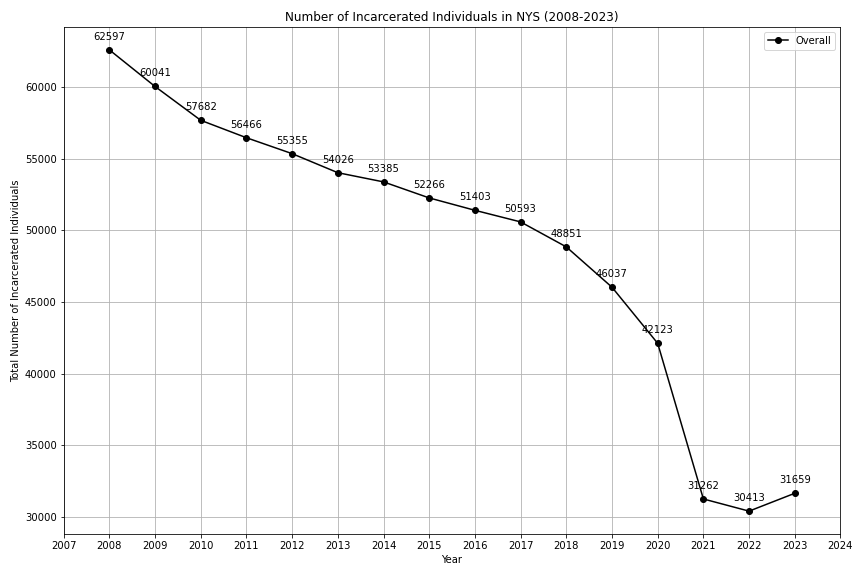
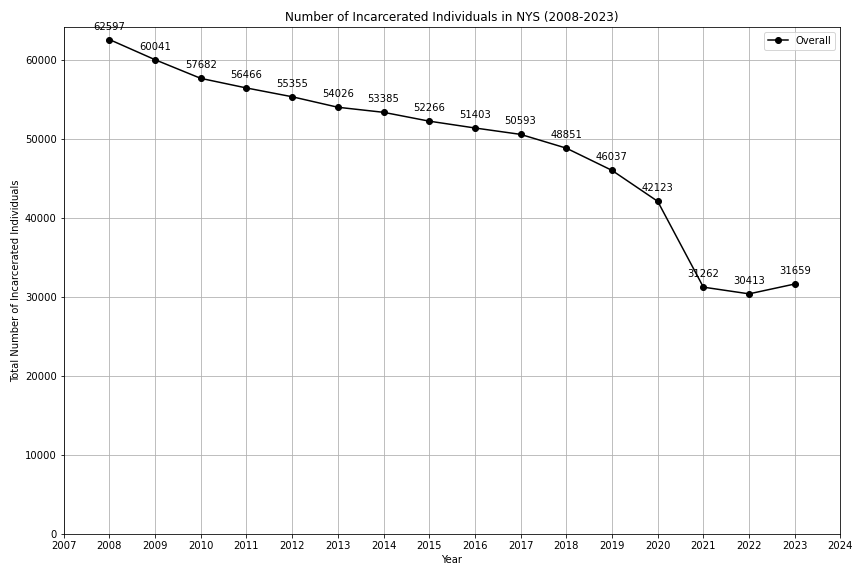
Finalizing
Changing the terms used in specific scripts relating to jails, prisons, and correctional (housing) facilities.

diff --git a/FACILITY/facility.py b/FACILITY/facility.py
@@ -1,4 +1,4 @@
-#This script generates stacked bar charts demonstrating the racial distribution of incarcerated individuals in New York state in the snapshot year 2023 by housing facility.
+#This script generates stacked bar charts demonstrating the racial distribution of incarcerated individuals in New York state in the snapshot year 2023 by facility (i.e., jail, prison, etc.)
 
 #Importing necessary libraries.
 import pandas as pd
@@ -10,7 +10,7 @@ incarcerated_data = pd.read_csv("Incarcerated_Individuals_Under_Custody_Beginnin
 #Trimming down to year 2023.
 incarcerated_data_2023 = incarcerated_data[incarcerated_data['Snapshot Year'] == 2023]
 
-#Grouping by housing facility and counting the number of incarcerated individuals.
+#Grouping by correctional facility and counting the number of incarcerated individuals.
 facility_counts = incarcerated_data_2023.groupby('Housing Facility').size().reset_index(name='Total_Count')
 
 #Calculating the number of incarcerated individuals by race for each facility.
@@ -22,13 +22,13 @@ facility_counts = facility_counts.merge(racial_counts_by_facility, on='Housing F
 #Sorting facilities by total count in descending order.
 facility_counts = facility_counts.sort_values(by='Total_Count', ascending=False)
 
-#Plotting stacked bar charts for top 10 and bottom 10 facilities. 
+#Plotting stacked bar charts for top 10 and bottom 10 correctional facilities. 
 #Plotting the top 10 facilities.
 top_10_facilities = facility_counts.head(10)
 if not top_10_facilities.empty:
     top_10_facilities.set_index('Housing Facility').drop(columns='Total_Count').plot(kind='bar', stacked=True, figsize=(10, 8), color=['#BC8F8F', '#A0522D', '#CD853F', '#D2691E', '#8B5A2B', 'tan'])
-    plt.title('Racial Distribution of Incarcerated Individuals in Top 10 Facilities in NYS (2023)', fontsize=14)
-    plt.xlabel('Housing Facilities with the Highest Amount of Incarcerated Individuals in NYS', fontsize=12)
+    plt.title('Racial Distribution of Incarcerated Individuals in Top 10 Jails/Prisons in NYS (2023)', fontsize=14)
+    plt.xlabel('Jails/Prisons with the Highest Amount of Incarcerated Individuals in NYS', fontsize=12)
     plt.ylabel('Number of Incarcerated Individuals', fontsize=12)
     plt.legend(title='Race/Ethnicity')
     plt.xticks(rotation=45, ha='right', fontsize=10)
@@ -43,8 +43,8 @@ if not top_10_facilities.empty:
 bottom_10_facilities = facility_counts.tail(10)
 if not bottom_10_facilities.empty:
     bottom_10_facilities.set_index('Housing Facility').drop(columns='Total_Count').plot(kind='bar', stacked=True, figsize=(10, 8), color=['#BC8F8F', '#A0522D', '#CD853F', '#D2691E', '#8B5A2B', 'tan'])
-    plt.title('Racial Distribution of Incarcerated Individuals in Bottom 10 Facilities in NYS (2023)', fontsize=14)
-    plt.xlabel('Housing Facilities with the Least Amount of Incarcerated Individuals in NYS', fontsize=12)
+    plt.title('Racial Distribution of Incarcerated Individuals in Bottom 10 Jails/Prisonsin NYS (2023)', fontsize=14)
+    plt.xlabel('Jails/Prisons with the Least Amount of Incarcerated Individuals in NYS', fontsize=12)
     plt.ylabel('Number of Incarcerated Individuals', fontsize=12)
     plt.legend(title='Race/Ethnicity')
     plt.xticks(rotation=45, ha='right', fontsize=10)
@@ -55,13 +55,13 @@ if not bottom_10_facilities.empty:
     plt.savefig('bottom_10_facilities_race_distribution.png')
     plt.show()
 
-#Calculating the number of non-white individuals for each housing facility.
+#Calculating the number of non-white individuals for each facility.
 nonwhite_counts = incarcerated_data_2023[incarcerated_data_2023['Race/Ethnicity'] != 'WHITE'].groupby('Housing Facility').size().reset_index(name='Nonwhite_Count')
 
-#Merging the total counts and non-white counts by housing facility.
+#Merging the total counts and non-white counts by facility.
 facility_counts = pd.merge(facility_counts, nonwhite_counts, on='Housing Facility', how='left')
 
-#Calculating the percentage of non-white individuals for each housing facility.
+#Calculating the percentage of non-white individuals for each facility.
 facility_counts['Nonwhite_Percentage'] = (facility_counts['Nonwhite_Count'] / facility_counts['Total_Count']) * 100
 
 #Saving the facility counts and percentages to a CSV file.

diff --git a/CRIME VS/crimes_heatmap.py b/CRIME VS/crimes_heatmap.py
@@ -1,4 +1,4 @@
-#This script analyzes the relationship between the top 10 crimes and both the top 25 housing facilities and race/ethnicity of incarcerated individuals in 2023, visualizing the data using heatmaps.
+#This script analyzes the relationship between the top 10 crimes and both the top 25 correctional facilities (i.e., jails and prisons) and race/ethnicity of incarcerated individuals in 2023, visualizing the data using heatmaps.
 
 #Importing libraries.
 import pandas as pd
@@ -11,10 +11,10 @@ incarcerated_data = pd.read_csv("Incarcerated_Individuals_Under_Custody_Beginnin
 #Filtering data for the year 2023.
 incarcerated_data_2023 = incarcerated_data[incarcerated_data['Snapshot Year'] == 2023]
 
-#Geting the top 25 facilities with the most incarcerated individuals.
+#Geting the top 25 correctional facilities with the most incarcerated individuals.
 top_facilities = incarcerated_data_2023.groupby('Housing Facility').size().nlargest(25).index
 
-#Filtering the dataset to include only the top 25 facilities.
+#Filtering the dataset to include only the top 25 correctional facilities.
 incarcerated_data_2023 = incarcerated_data_2023[incarcerated_data_2023['Housing Facility'].isin(top_facilities)]
 
 #Counting the number of incarcerated individuals by most serious crime.
@@ -22,31 +22,20 @@ crime_counts = incarcerated_data_2023['Most Serious Crime'].value_counts().reset
 print(crime_counts.head(10))
 
 #Defining the top 10 crimes based on printed list.
-top_crimes = [
-    "MURDER 2ND",
-    "C POS WEAPON 2ND",
-    "MANSLAUGHTER 1ST",
-    "ATT C POS WEAP 2ND",
-    "ROBBERY 1ST",
-    "ATT MURDER 2ND",
-    "RAPE 1ST",
-    "CPCS 3RD",
-    "ASSAULT 1ST B FELONY",
-    "BURGLARY 2ND, SUB 2"
-]
+top_crimes = [crime_counts.head(10)]
 
 #Filtering the dataset to include only the top 10 crimes.
 incarcerated_data_2023 = incarcerated_data_2023[incarcerated_data_2023['Most Serious Crime'].isin(top_crimes)]
 
-#Grouping by facility and crime.
+#Grouping by correctional facility and crime.
 facility_crime_counts = incarcerated_data_2023.groupby(['Housing Facility', 'Most Serious Crime']).size().unstack(fill_value=0)
 
-#Plotting a heatmap for relationship between facility and crime.
+#Plotting a heatmap for relationship between correctional facility and crime.
 plt.figure(figsize=(12, 8))
 sns.heatmap(facility_crime_counts, cmap='YlOrBr', annot=True, fmt='d')
-plt.title('Relationship between Top 10 Most Serious Crimes Committed and Top 25 NYS Housing Facilities (2023)')
+plt.title('Relationship between Top 10 Most Serious Crimes Committed and Top 25 NYS Jails/Prisons (2023)')
 plt.xlabel('Most Serious Crime')
-plt.ylabel('Housing Facility')
+plt.ylabel('Jail, Prison, or Correctional Facility')
 plt.xticks(rotation=45, ha='right')
 plt.tight_layout()
 plt.savefig('crime_facility_heatmap_top10.png')

diff --git a/TIME SERIES/time_series.py b/TIME SERIES/time_series.py
@@ -26,6 +26,7 @@ for i, txt in enumerate(yearly_counts):
 plt.xlim(2008, 2023) 
 #Ensuring all years from 2008 to 2023 are labeled.
 plt.xticks(range(2007, 2025))
+plt.ylim(0)
 plt.tight_layout()
 plt.savefig('timeseries_total_incarcerated_individuals.png')
 plt.show()
@@ -53,6 +54,7 @@ for i, txt in enumerate(yearly_race_counts['Non-White']):
 plt.xlim(2008, 2023) 
 #Ensuring all years from 2008 to 2023 are labeled.
 plt.xticks(range(2007, 2025))
+plt.ylim(0)
 plt.tight_layout()
 plt.savefig('timeseries_race_incarcerated_individuals.png') 
 plt.show()

diff --git a/CHOROPLETH/nonwhite_choropleth.py b/CHOROPLETH/nonwhite_choropleth.py
@@ -1,4 +1,4 @@
-#This script generates a chloropleth map of the percent nonwhite incarcerated individuals by indicting county in NYS in the snapshot year 2023.
+#This script generates a choropleth map of the percent nonwhite incarcerated individuals by indicting county in NYS in the snapshot year 2023.
 
 #Importing necessary libraries.
 import pandas as pd
